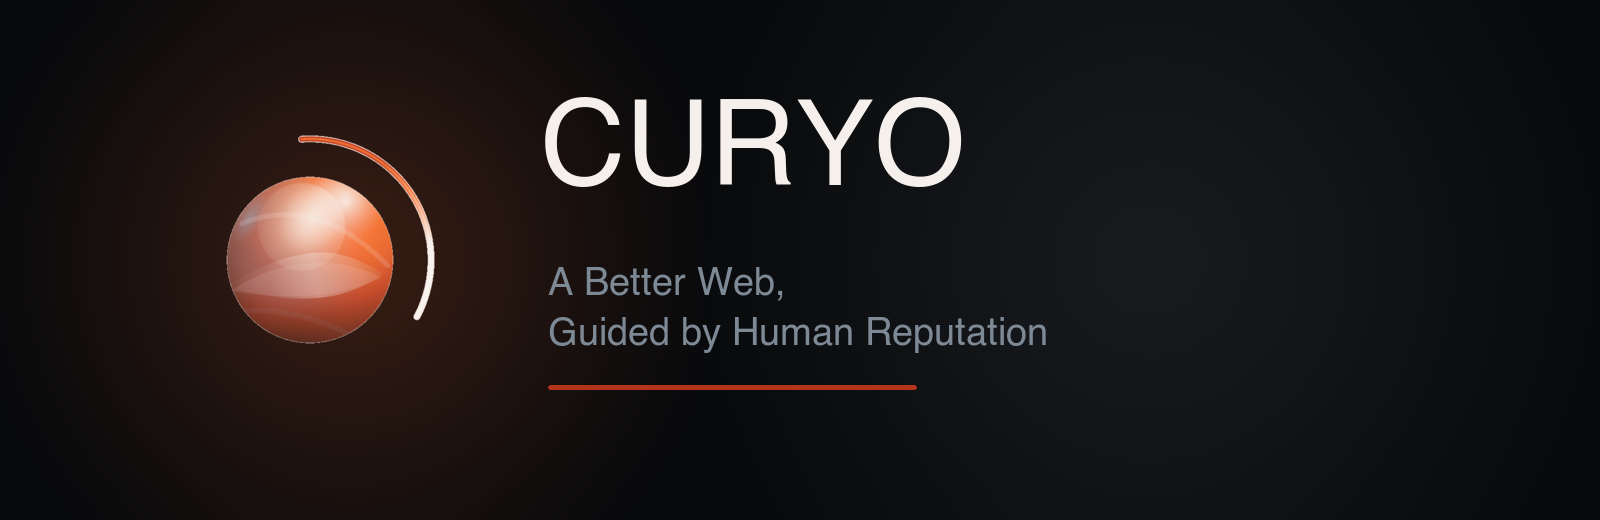
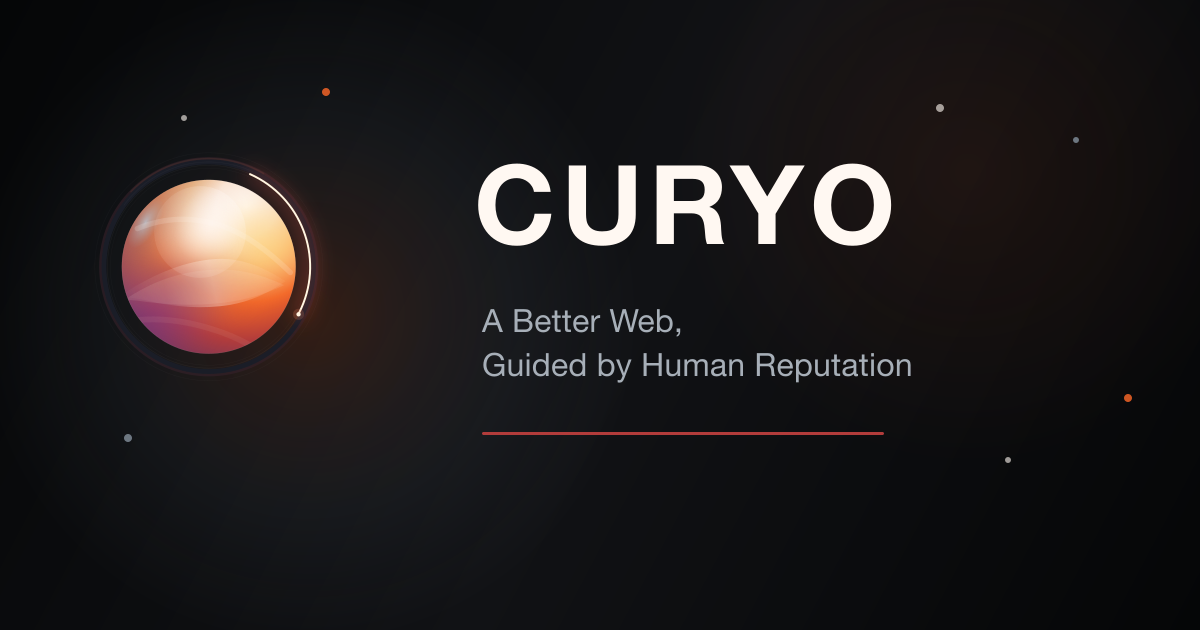
Refresh social share images

diff --git a/packages/nextjs/utils/scaffold-eth/getMetadata.ts b/packages/nextjs/utils/scaffold-eth/getMetadata.ts
@@ -4,17 +4,11 @@ const baseUrl = process.env.VERCEL_PROJECT_PRODUCTION_URL
   ? `https://${process.env.VERCEL_PROJECT_PRODUCTION_URL}`
   : `http://localhost:${process.env.PORT || 3000}`;
 const titleTemplate = "%s | Curyo";
+const socialImageAlt = "Curyo brand banner with the tagline A Better Web, Guided by Human Reputation.";
 
-export const getMetadata = ({
-  title,
-  description,
-  imageRelativePath = "/og-image.png",
-}: {
-  title: string;
-  description: string;
-  imageRelativePath?: string;
-}): Metadata => {
-  const imageUrl = `${baseUrl}${imageRelativePath}`;
+export const getMetadata = ({ title, description }: { title: string; description: string }): Metadata => {
+  const openGraphImageUrl = `${baseUrl}/og-image.png`;
+  const twitterImageUrl = `${baseUrl}/twitter-image.png`;
 
   return {
     metadataBase: new URL(baseUrl),
@@ -31,10 +25,10 @@ export const getMetadata = ({
       description: description,
       images: [
         {
-          url: imageUrl,
-          width: 1600,
-          height: 520,
-          alt: title,
+          url: openGraphImageUrl,
+          width: 1200,
+          height: 630,
+          alt: socialImageAlt,
         },
       ],
     },
@@ -45,7 +39,14 @@ export const getMetadata = ({
         template: titleTemplate,
       },
       description: description,
-      images: [imageUrl],
+      images: [
+        {
+          url: twitterImageUrl,
+          width: 1200,
+          height: 600,
+          alt: socialImageAlt,
+        },
+      ],
     },
     icons: {
       icon: [
